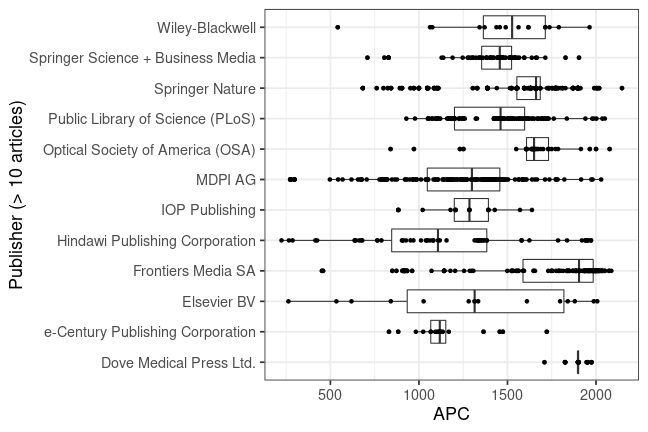
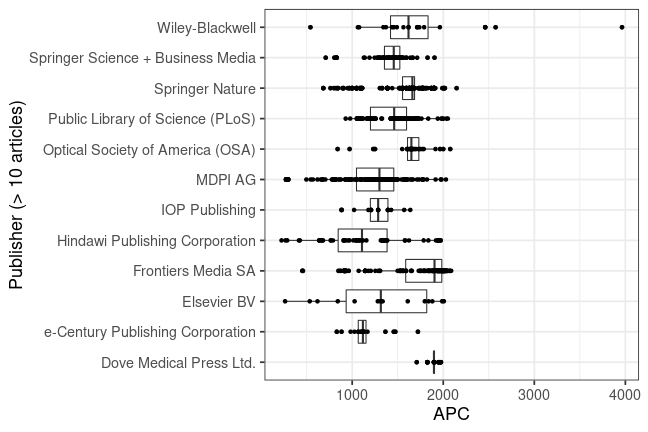
update: fau apc data 2019

diff --git a/_posts/2020-04-15-fau.md b/_posts/2020-04-15-fau.md
@@ -22,7 +22,7 @@ Contact person is [Markus Putnings](mailto:markus.putnings@fau.de).
 
 
 
-The new data set covers publication fees for 218 articles. Total expenditure amounts to 325 541€ and the average fee is 1 493€.
+The new data set covers publication fees for 222 articles. Total expenditure amounts to 337 001€ and the average fee is 1 518€.
 
 The following table shows the payments the FAU has made to publishers in 2019.
 
@@ -36,6 +36,7 @@ The following table shows the payments the FAU has made to publishers in 2019.
 |Informa UK Limited                                                 |        7|             13323|          1903|
 |Elsevier BV                                                        |        5|              7310|          1462|
 |Hindawi Publishing Corporation                                     |        5|              8937|          1787|
+|Wiley-Blackwell                                                    |        4|             11460|          2865|
 |BMJ                                                                |        3|              4543|          1514|
 |American Chemical Society (ACS)                                    |        2|              1611|           805|
 |Genetics Society of America                                        |        2|              3932|          1966|
